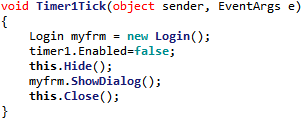
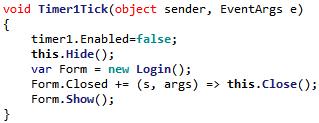
1131

Changed region(s): [[0.0894, 0.2479, 1.0, 0.8678], [0.0, 0.0, 1.0, 0.2727], [0.0, 0.8678, 0.0298, 0.9917]]

diff --git a/Programacion/0 Programacion.html b/Programacion/0 Programacion.html
@@ -58,7 +58,7 @@
 				<tr>
 					<td><br></td>
 				</tr>
-				<!--<tr>
+				<tr>
 					<td>
 						<input class="ButtonMain" type="button" target="_self" value="2. Programación con C#">
 					</td>
@@ -77,7 +77,7 @@
 					<td>
 						<input class="ButtonSub" type="button" target="_self" onclick="window.location='2.9 Diseño de Interfaces para%20automatización con C%23 y Mfg Advanced HMI Controls.html'" value="    2.3 Diseño de Interfaces para automatización con C# y Mfg Advanced HMI Controls">
 					</td>
-				</tr>-->
+				</tr><!---->
 			</table>
 			<iframe class="pag" id="ifrm1" name="ifrm1" scrolling="no" marginwidth="0" src="html/0.html"></iframe>
 		</div>

diff --git a/Programacion/2.9 Diseño de Interfaces para automatización con C# y Mfg Advanced HMI Controls.html b/Programacion/2.9 Diseño de Interfaces para automatización con C# y Mfg Advanced HMI Controls.html
@@ -35,14 +35,14 @@
 				</video>
 			</div>
 			<br>
-			Es posible que se requiera la re-configuración de la plataforma .NET para poder ejecutar la aplicación desarrollada con la librería de controles.
+			<!--Es posible que se requiera la re-configuración de la plataforma .NET para poder ejecutar la aplicación desarrollada con la librería de controles.
 			<br><br>
 			<div align="center">
 				<video controls controlslist="nodownload" preload="preload" loop>
 					<source src="video/5 - Configuración.webm" type="video/webm">
 				</video>
 			</div>
-			<br><br>
+			<br><br>-->
 			<b><i>Añadiendo código a la aplicación</i></b>
 			<br><br>
 			La configuración de la interface visual de la aplicación nos permite establecer el aspecto que tendrá el programa para el usuario final, pero detrás de ésta  hay un código que define el &ldquo;comportamiento&rdquo; del programa, que es la manera en que procesa la información y controla cuando debe hacerlo.